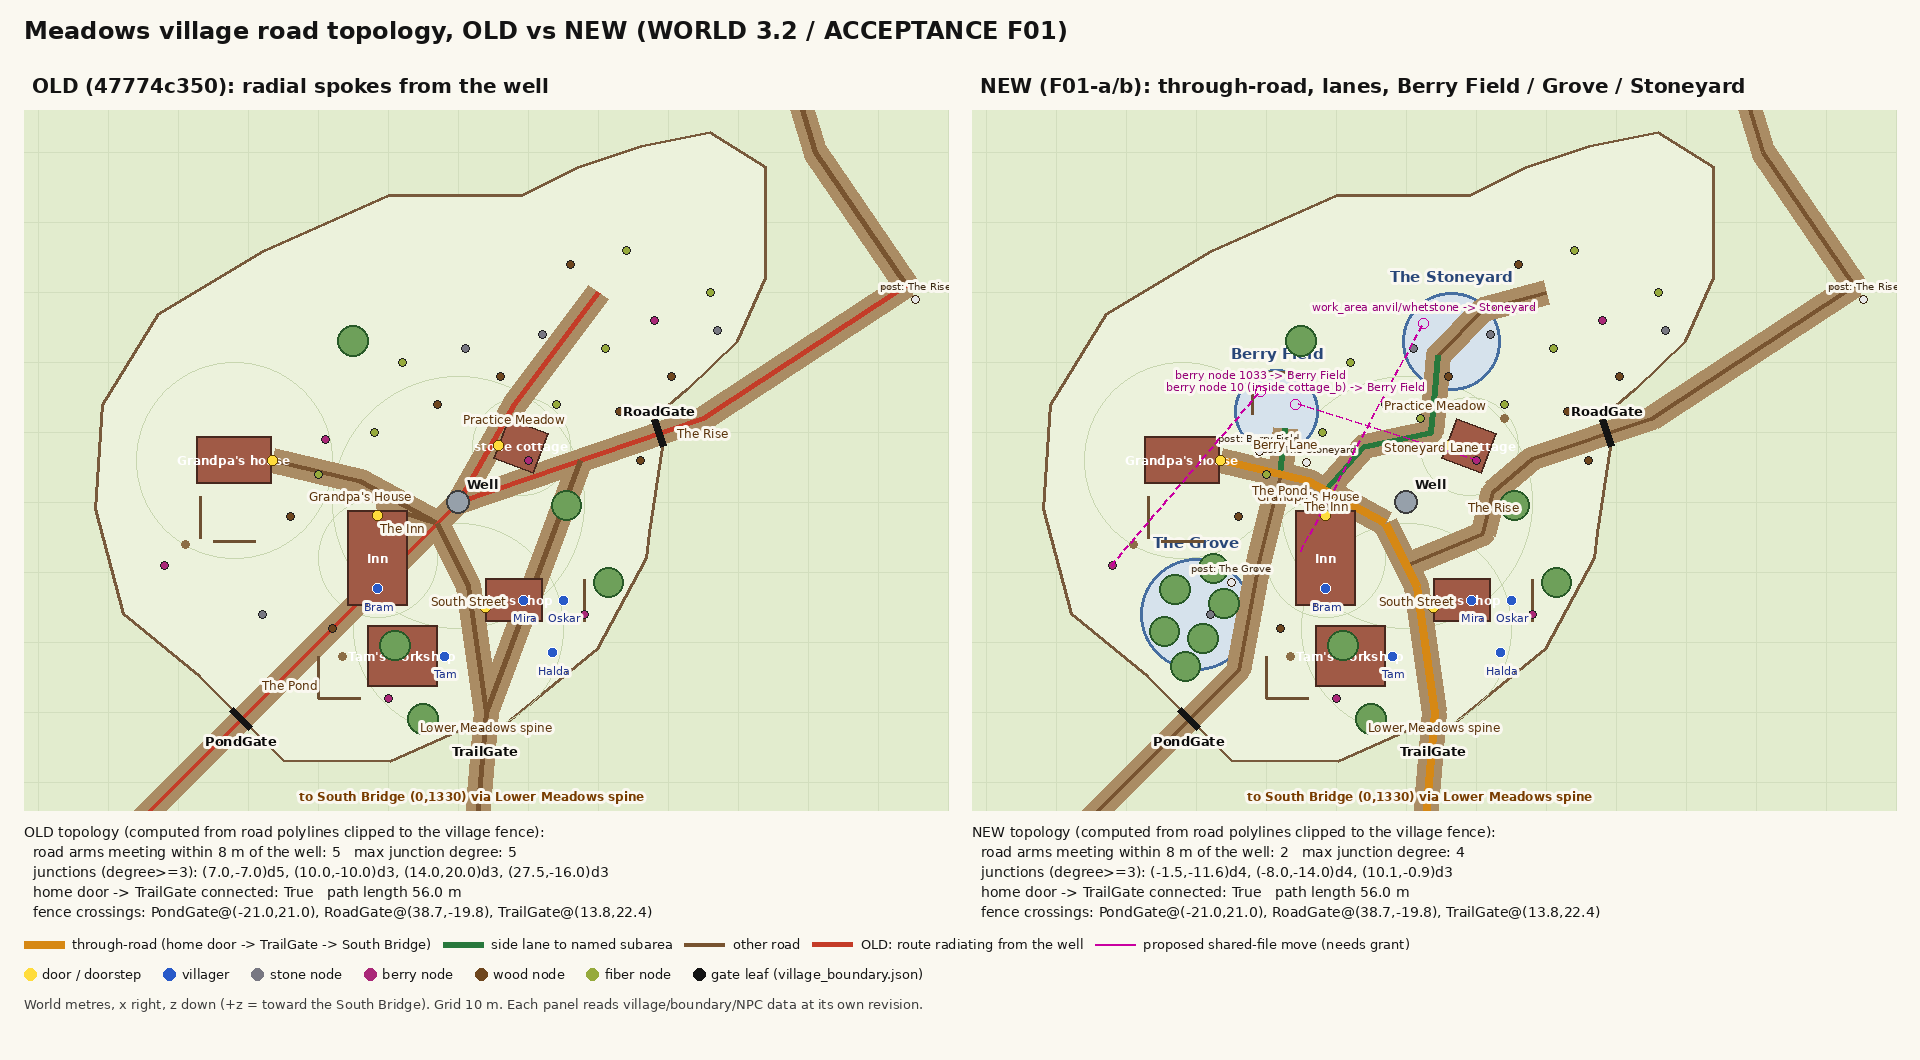
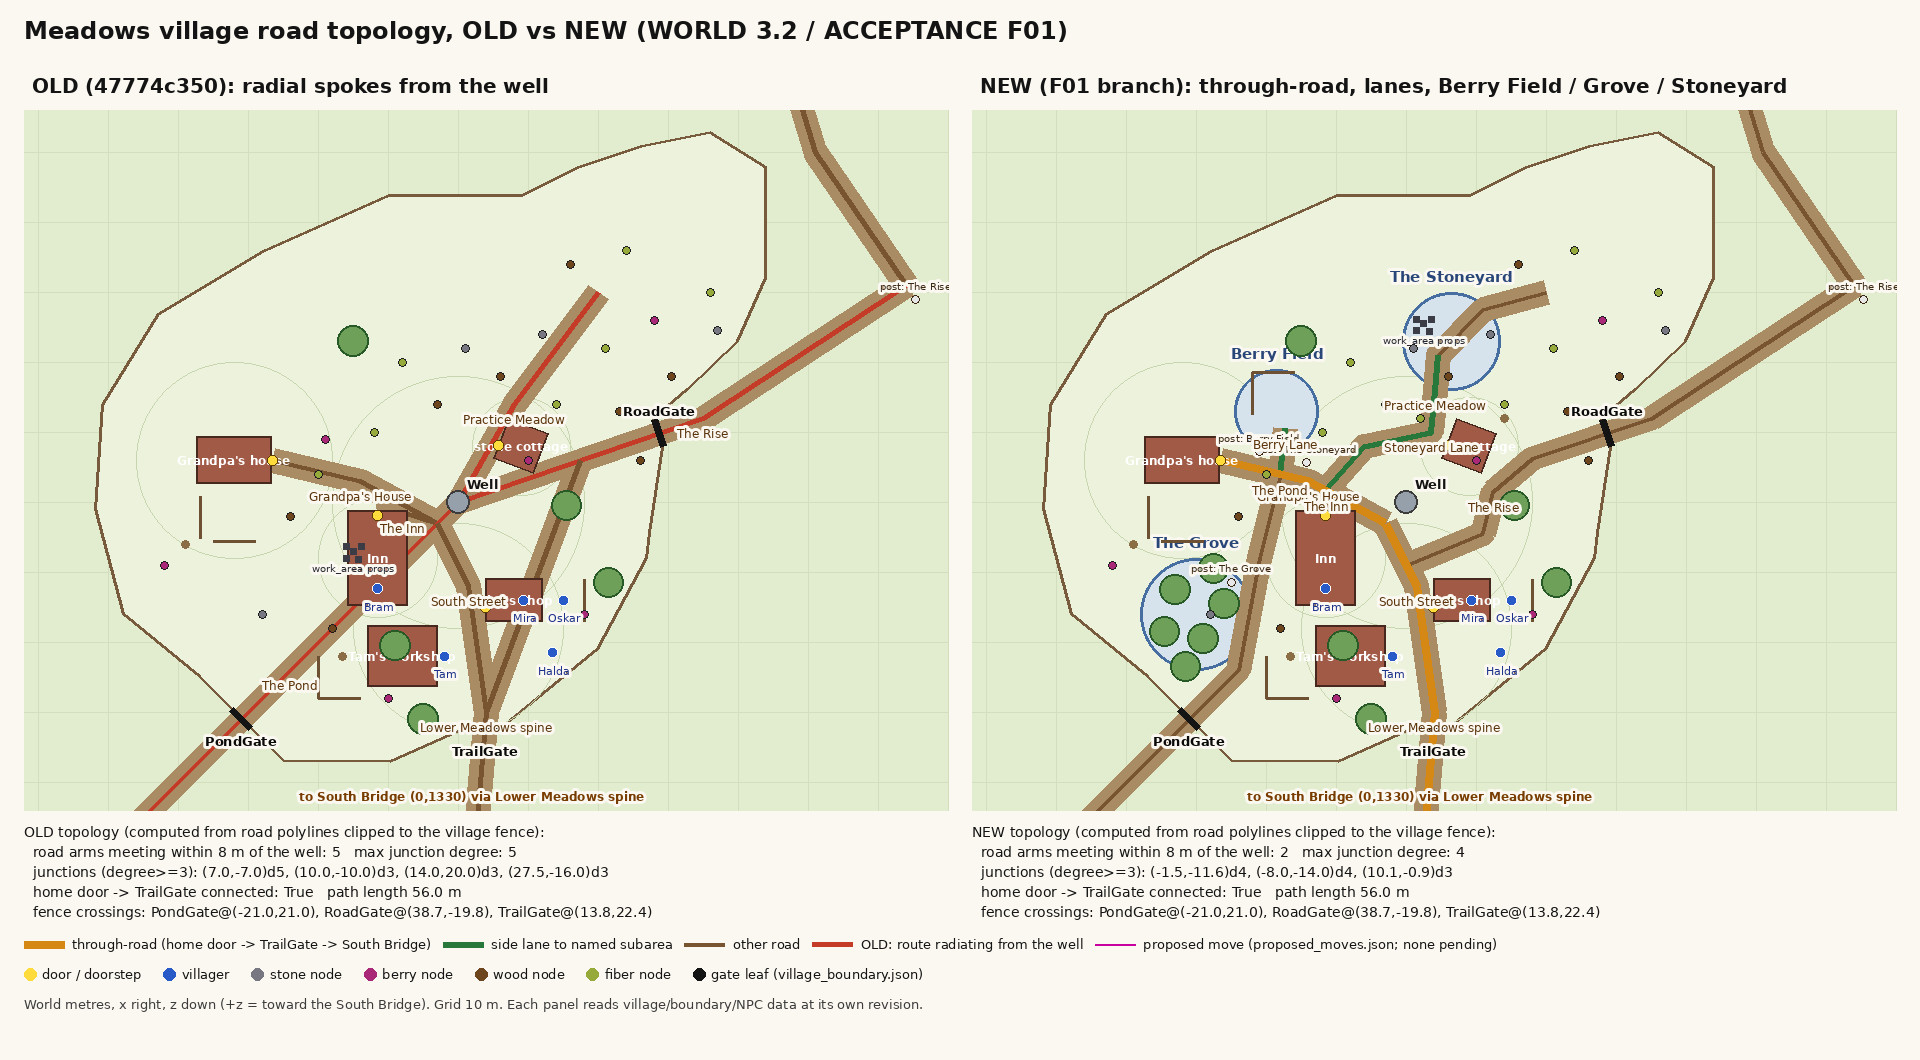
F01-c: bring the village-road evidence in line with the branch
This belongs to the previous F01-c commit. The report files sit outside the
sparse checkout, and git add left them out of that commit.
- README: the work_area move was kept (ee6cf86ca). The berry-node move was
  reverted in 3d1cb7cd9 because gate-F segments walk to node 10; the README
  gives that reason and describes the Berry Field's flowerless planted rows
  and the Grove's clearing (order 1930). It lists the stale shared-file
  references for the lead: test_gate_a_build_segment_contract.gd:49,
  map_landmarks.json:9,12 and capture_prop_clusters.gd:28.
- proposed_moves.json is empty.
- plan_old_new.png is regenerated by make_plan.py. It now reads
  harvest/props at each panel's revision, draws the work_area props, and
  draws no berry-node moves.

Claude-Session: https://claude.ai/code/session_013jXLSe2pQTHddd6w7KBo3Z

diff --git a/ralph/reports/MEADOWS-PAYOFFS/village-road/make_plan.py b/ralph/reports/MEADOWS-PAYOFFS/village-road/make_plan.py
@@ -6,8 +6,8 @@ topology, drawn straight from the data files (no engine, no screenshots).
 
 OLD_REV (default 47774c350) is the git revision whose
 data/config/terrain_playground.json is drawn as OLD; NEW is the working tree.
-Buildings, gates and NPCs are read at the same revision as each panel's roads;
-harvest nodes come from the working tree for both. Moves still only proposed
+Buildings, gates, NPCs, harvest nodes and the work_area props are read at the
+same revision as each panel's roads. Moves still only proposed
 (proposed_moves.json) are drawn dashed on the NEW panel.
 """
 import json
@@ -141,7 +141,7 @@ def draw_panel(main, ox, oy, title, terrain, topo_kind, shared, proposed):
         d.line([P.p(gx, Z0), P.p(gx, Z1)], fill=(210, 222, 190), width=1)
     for gz in range(int(math.ceil(Z0 / 10) * 10), int(Z1) + 1, 10):
         d.line([P.p(X0, gz), P.p(X1, gz)], fill=(210, 222, 190), width=1)
-    boundary, village, npcs, harvest = shared
+    boundary, village, npcs, harvest, props = shared
     outline = boundary["outline"]["points"]
     P.poly(outline, fill=(236, 242, 220), outline=(120, 90, 60), width=3)
     # flats (level pads) faint
@@ -214,6 +214,16 @@ def draw_panel(main, ox, oy, title, terrain, topo_kind, shared, proposed):
             P.circle_m(x, z, 2.2, outline=(40, 90, 40), width=2, fill=(110, 160, 90))
         elif s["prefab"] == "wagon":
             P.dot(x, z, 4, (140, 110, 70))
+    # the work_area prop cluster (band1 props.json), at this panel's revision
+    for c in props.get("clusters", []):
+        if c.get("name") != "work_area":
+            continue
+        for pr in c.get("props", []):
+            x, z = pr["at"][:2]
+            cx, cy = P.p(x, z)
+            d.rectangle([cx - 3, cy - 3, cx + 3, cy + 3], fill=(60, 60, 70))
+        x, z = c["props"][0]["at"][:2]
+        P.text(x, z + 2.4, "work_area props", font(10), fill=(40, 40, 50))
     # harvest nodes near the village
     colours = {"stone": (120, 120, 130), "berries": (170, 40, 120), "wood": (110, 70, 30),
                "fiber": (150, 170, 60)}
@@ -280,10 +290,13 @@ def main():
     harvest = load("data/config/bands/band1_lower_meadows/harvest.json")
     old = load(TERRAIN, OLD_REV)
     new = load(TERRAIN)
-    shared = (boundary, village, npcs, harvest)
+    props_path = "data/config/bands/band1_lower_meadows/props.json"
+    shared = (boundary, village, npcs, harvest, load(props_path))
     shared_old = (load("data/config/village_boundary.json", OLD_REV),
                   load("data/config/village.json", OLD_REV),
-                  load("data/config/village_npcs.json", OLD_REV), harvest)
+                  load("data/config/village_npcs.json", OLD_REV),
+                  load("data/config/bands/band1_lower_meadows/harvest.json", OLD_REV),
+                  load(props_path, OLD_REV))
     prop_path = os.path.join(os.path.dirname(os.path.abspath(__file__)), "proposed_moves.json")
     proposed = json.load(open(prop_path))["moves"] if os.path.exists(prop_path) else []
     W = PANEL_W * 2 + GAP * 3
@@ -292,7 +305,7 @@ def main():
     draw_panel(img, GAP, PAD_TOP, "OLD (%s): radial spokes from the well" % OLD_REV, old, "old",
                shared_old, [])
     draw_panel(img, GAP * 2 + PANEL_W, PAD_TOP,
-               "NEW (F01-a/b): through-road, lanes, Berry Field / Grove / Stoneyard", new, "new", shared,
+               "NEW (F01 branch): through-road, lanes, Berry Field / Grove / Stoneyard", new, "new", shared,
                proposed)
     d = ImageDraw.Draw(img)
     y = PAD_TOP + PANEL_H + 14
@@ -320,7 +333,7 @@ def main():
              ((40, 120, 60), "side lane to named subarea", 6),
              ((120, 84, 48), "other road", 4),
              ((196, 60, 40), "OLD: route radiating from the well", 5),
-             ((200, 0, 160), "proposed shared-file move (needs grant)", 2)]
+             ((200, 0, 160), "proposed move (proposed_moves.json; none pending)", 2)]
     lx = GAP
     for col, label, w in items:
         d.line([(lx, ly + 8), (lx + 40, ly + 8)], fill=col, width=w)

diff --git a/ralph/reports/MEADOWS-PAYOFFS/village-road/README.md b/ralph/reports/MEADOWS-PAYOFFS/village-road/README.md
@@ -1,10 +1,10 @@
-# F01 village road topology (work orders F01-a and F01-b)
+# F01 village road topology (work orders F01-a, F01-b and F01-c)
 
 Evidence for WORLD §3.2 and ACCEPTANCE F01/M1, part a: the overhead plan comparing the old and new traversable road topology. The in-engine day/night walk and the bakes still belong to the lead.
 
 - `plan_old_new.png` is the labelled overhead plan. OLD is 47774c350; NEW is this branch. `make_plan.py` regenerates it from the JSON, and each panel reads the village, boundary and NPC data at its own revision.
 - `topology.py` holds the road-graph rules. `tests/test_village_road_topology.gd` implements the same rules.
-- `proposed_moves.json` lists the moves held in the two `PENDING GRANT` commits. The NEW panel draws them as dashed lines.
+- `proposed_moves.json` is empty: no moves are pending. The NEW panel draws the work_area props where they now stand.
 - `tools/_probe_f01_road_slope.gd` measures road grades and the slope across each subarea, using the heightfield the bake uses.
 
 ## Topology (computed from the data)
@@ -22,18 +22,20 @@ Each subarea is named by a one-arm fingerpost on the road that serves it.
 
 - **The Stoneyard** (stone-working area): centre (16.5,-33), radius 7.
   - Holds stone nodes 4 [22,-34] and 1037 [11,-32], with deadwood 0 at its rim.
+  - Holds the `work_area` props (anvil, workbench, whetstone, crate, pickaxe), moved here from inside the inn apron by ee6cf86ca.
   - Its own scatter clearing is band1 `clearings` order 1929.
   - It is the end of **Stoneyard Lane**: (-1.5,-11.64) → (4,-18) → (13.6,-20) → (14.2,-26) → (14.6,-31). The lane passes 2.8 m in front of the stone cottage's threshold, so cottage_b keeps its 0912 pose.
   - The fingerpost stands at (-4.2,-15.6).
 - **Berry Field**: centre (-8.5,-23), radius 6.
-  - Holds berry node 1036 [-9,-19].
-  - A planted row of 7 Bush_Common_Flowers bushes (a band1 `layer_anchors.bushes` entry), sized like a harvest node.
+  - Holds berry node 1036 [-9,-19], the only harvestable bush in the field.
+  - Planted rows: 10 low Bush_Common shrubs from a band1 `layer_anchors.bushes` entry. These are deliberately flowerless and about knee height, not the flowering Bush_Common_Flowers the harvest nodes use, so the one pickable bush is the one that looks pickable.
   - An L of fence rails from `village.json`: north rail at [-9,-28.5], west rail at [-12,-25.5].
   - It is the end of **Berry Lane**: (-8,-13.96) → (-7.2,-20.5).
   - The fingerpost stands at (-11,-17.2).
 - **The Grove**: centre (-20,6), radius 8.
   - Six `village.json` oaks with trunk-only colliders, standing 3.7 m or more from the road.
   - A 6-bush understorey anchor, round stone node 6.
+  - Its own scatter clearing (band1 order 1930, radius 9.5) keeps baked random trees and rocks off the oaks. The understorey anchor opts out of that clearing.
   - The Pond lane runs through its east margin.
   - The fingerpost stands at (-15,1.5).
 
@@ -45,7 +47,7 @@ Each subarea is named by a one-arm fingerpost on the road that serves it.
 
 ## Bakes the lead must run
 
-Run these as Godot writers, serialized, under the lane's Godot writer lock (for example `flock <lane lock file> <command>`). Run them after deciding on the two `PENDING GRANT` commits, so that the bake sees the final data.
+Run these as Godot writers, serialized, under the lane's Godot writer lock (for example `flock <lane lock file> <command>`). Run them on the branch head, after the F01-c commit.
 
 ```
 ~/godot-bin/godot --headless --path . --script scripts/world/build_playground_terrain.gd
@@ -55,8 +57,13 @@ Run these as Godot writers, serialized, under the lane's Godot writer lock (for 
 
 Then commit `data/terrain/playground/` (the regions and `manifest.json`) and `data/scatter/playground/`.
 
-## Pending-grant commits (drop or keep)
+## Shared-file decisions
 
-- **work_area → The Stoneyard.** In band1 `props.json`, the anvil, workbench, whetstone, crate and pickaxe move by (+17.5,-32.5), from about (-5,-3), inside the inn apron, to about (12.5,-35.5). The commit also corrects the tournament cluster's `_why_vp5`, which still describes the removed spine leg.
-- **Berry nodes → Berry Field.** In band1 `harvest.json`, node 10 moves from [20,-16] to [-5.8,-24] and node 1033 from [-32,-1] to [-10.8,-25.8]. Node 10 has sat inside cottage_b's walls since the 0912 move. The village node count stays 28.
-  - Risk: gate-F segments S03, S03C, S03p3, S03Cp3 and diag_night_preconditions_0919 script a walk to node 10 at [20,-16]. They need re-pointing if this commit is kept.
+- **Kept: work_area moves to The Stoneyard** (ee6cf86ca). The live band1 `props.json` and its baseline mirror move together, which `test_band_content` requires. The commit also corrects the tournament cluster's `_why_vp5`.
+- **Reverted: berry nodes 10 and 1033 into the Berry Field** (5645fb3f9, reverted in 3d1cb7cd9). Gate-F segments S03, S03C, S03p3, S03Cp3 and diag_night_preconditions_0919 script a walk to node 10 at [20,-16].
+  - Node 10 therefore still sits inside cottage_b's walls, 3.66 m from its door. That is outside the door prompt's 3.0 m radius, and the door test guards the 3.2 m margin.
+  - Moving the node needs those segments re-pointed first.
+- **Stale references in shared files, left for the lead to update:**
+  - `tests/test_gate_a_build_segment_contract.gd:49` pins the `(18,-24)` "Practice Meadow road bend" waypoint line, which is now open ground and no longer on the road.
+  - `data/config/map_landmarks.json:9,12` gives reveal circles for "the village square" (10,-10) and "Practice Meadow road, midpoint" (18,-24). Both are still inside the village, but the labels are stale.
+  - `tools/capture_prop_clusters.gd:28` frames the work_area cluster at its old site: `WORK_AREA_CENTRE` (-5,-2.8).
